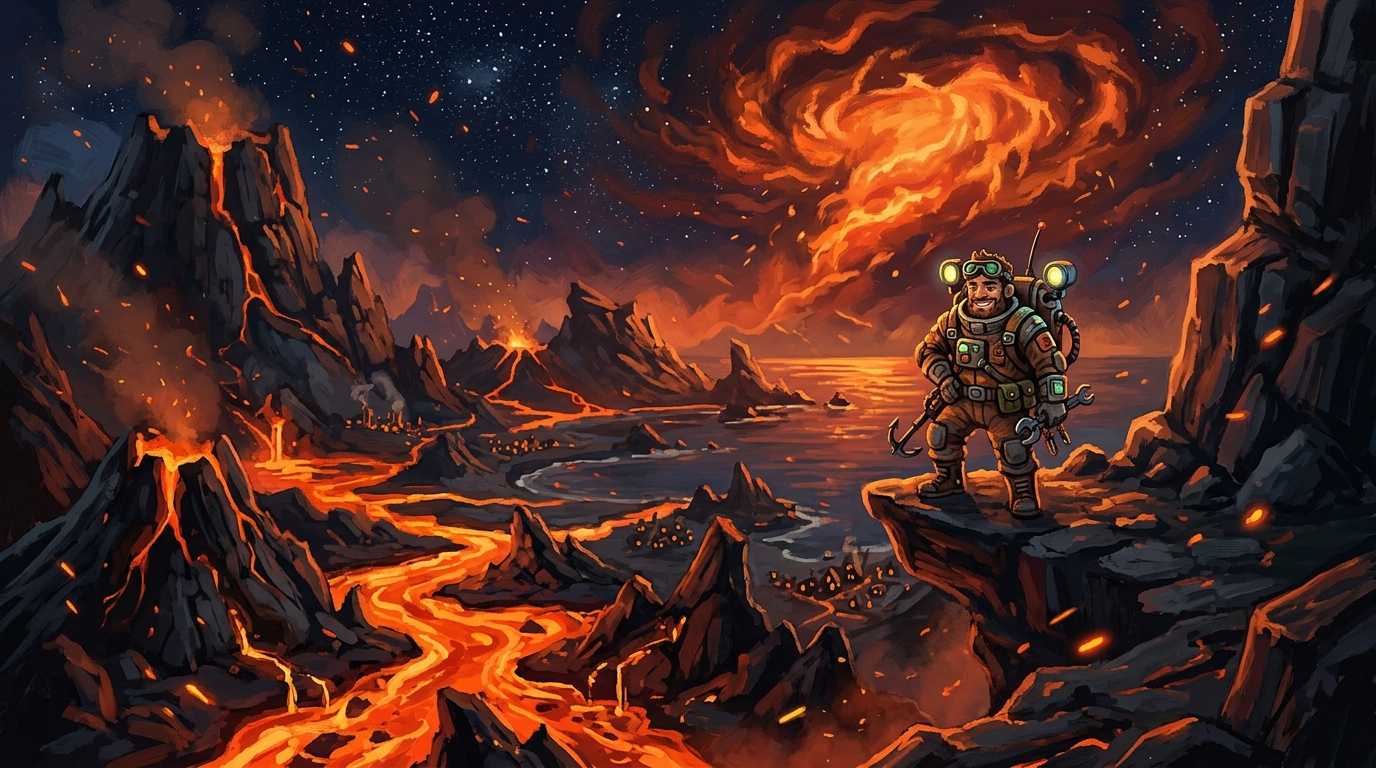
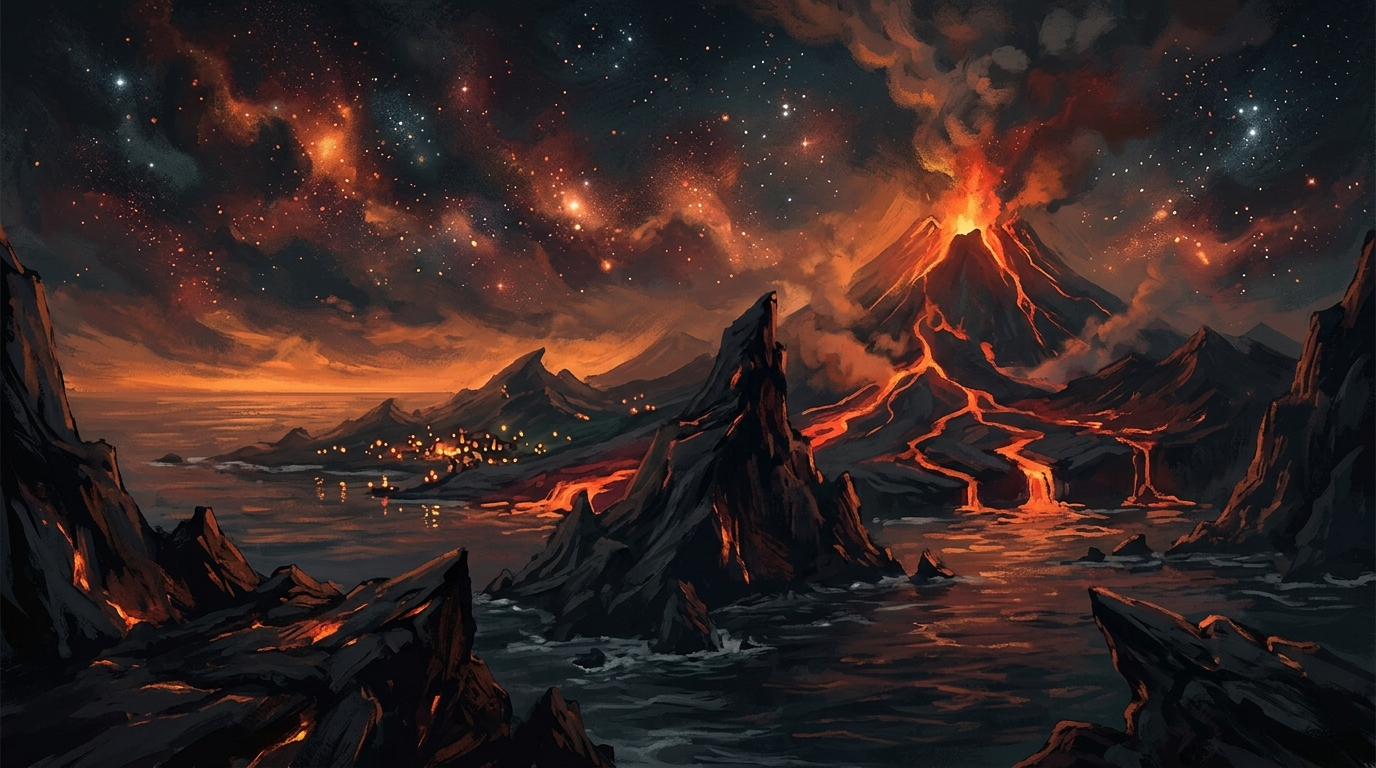
Replace Verdanth & Cinder Reach splash art: remove Dave the Diver lookalike character (IP hygiene); pure-landscape regen via Gemini

diff --git a/js/intro.js b/js/intro.js
@@ -29,7 +29,7 @@ const Intro = (() => {
       text: "Cook. Duel. Brew. Rekindle the Kettle." },
   ];
 
-  const ART_V = "20260822t";
+  const ART_V = "20260823a";
   let idx = 0, typeTimer = null;
 
   // gentle crossfaded theme switching

diff --git a/genplanets.py b/genplanets.py
@@ -1,0 +1,47 @@
+#!/usr/bin/env python3
+"""Regen planet splashes WITHOUT any diver character (IP hygiene)."""
+import urllib.request, json, os, base64, time
+
+KEY = os.environ["GOOGLE_API_KEY"]
+OUT = "/home/j/apps/starlight-supper/assets"
+
+STYLE = ("Wide cinematic landscape illustration for an indie game title screen: painterly, rich saturated colors, "
+         "dramatic lighting, no people, no humans, no characters, no figures — pure scenery only. ")
+
+PLANETS = {
+  "verdanth": ("Verdanth — a mossy alien super-garden at night: bioluminescent jungle with glowing white orchids and a giant "
+               "star-shaped luminous flower, mossy stone ruins and arching vine-covered monoliths, winding mossy path, drifting "
+               "spore-light orbs, twin moons over a starry sky. Emerald and teal palette."),
+  "cinder": ("Cinder Reach — volcanic island archipelago at night: erupting volcano with rivers of orange lava flowing to the sea, "
+             "jagged obsidian cliffs, distant coastal settlement with warm lights, swirling ember storm nebula in a deep starry sky. "
+             "Orange, charcoal and crimson palette."),
+}
+
+NEG = (" Absolutely no divers, no diving suits, no helmets with lamps, no oxygen tanks, no bearded men, no humanoid figures of any kind.")
+
+def gen(name, prompt):
+    body = {"contents": [{"parts": [{"text": STYLE + prompt + NEG}]}],
+            "generationConfig": {"responseModalities": ["IMAGE"], "imageConfig": {"aspectRatio": "16:9"}}}
+    req = urllib.request.Request(
+        f"https://generativelanguage.googleapis.com/v1beta/models/gemini-3.1-flash-image:generateContent?key={KEY}",
+        data=json.dumps(body).encode(), headers={"Content-Type": "application/json"})
+    with urllib.request.urlopen(req, timeout=120) as r:
+        resp = json.load(r)
+    for part in resp["candidates"][0]["content"]["parts"]:
+        if "inlineData" in part:
+            with open(os.path.join(OUT, name + ".png"), "wb") as f:
+                f.write(base64.b64decode(part["inlineData"]["data"]))
+            return True
+    return False
+
+for name, prompt in PLANETS.items():
+    for attempt in range(3):
+        try:
+            if gen(name, prompt):
+                print(f"OK {name}")
+                break
+        except Exception as e:
+            print("retry", name, e); time.sleep(4)
+    else:
+        print(f"FAIL {name}"); continue
+    time.sleep(2)
